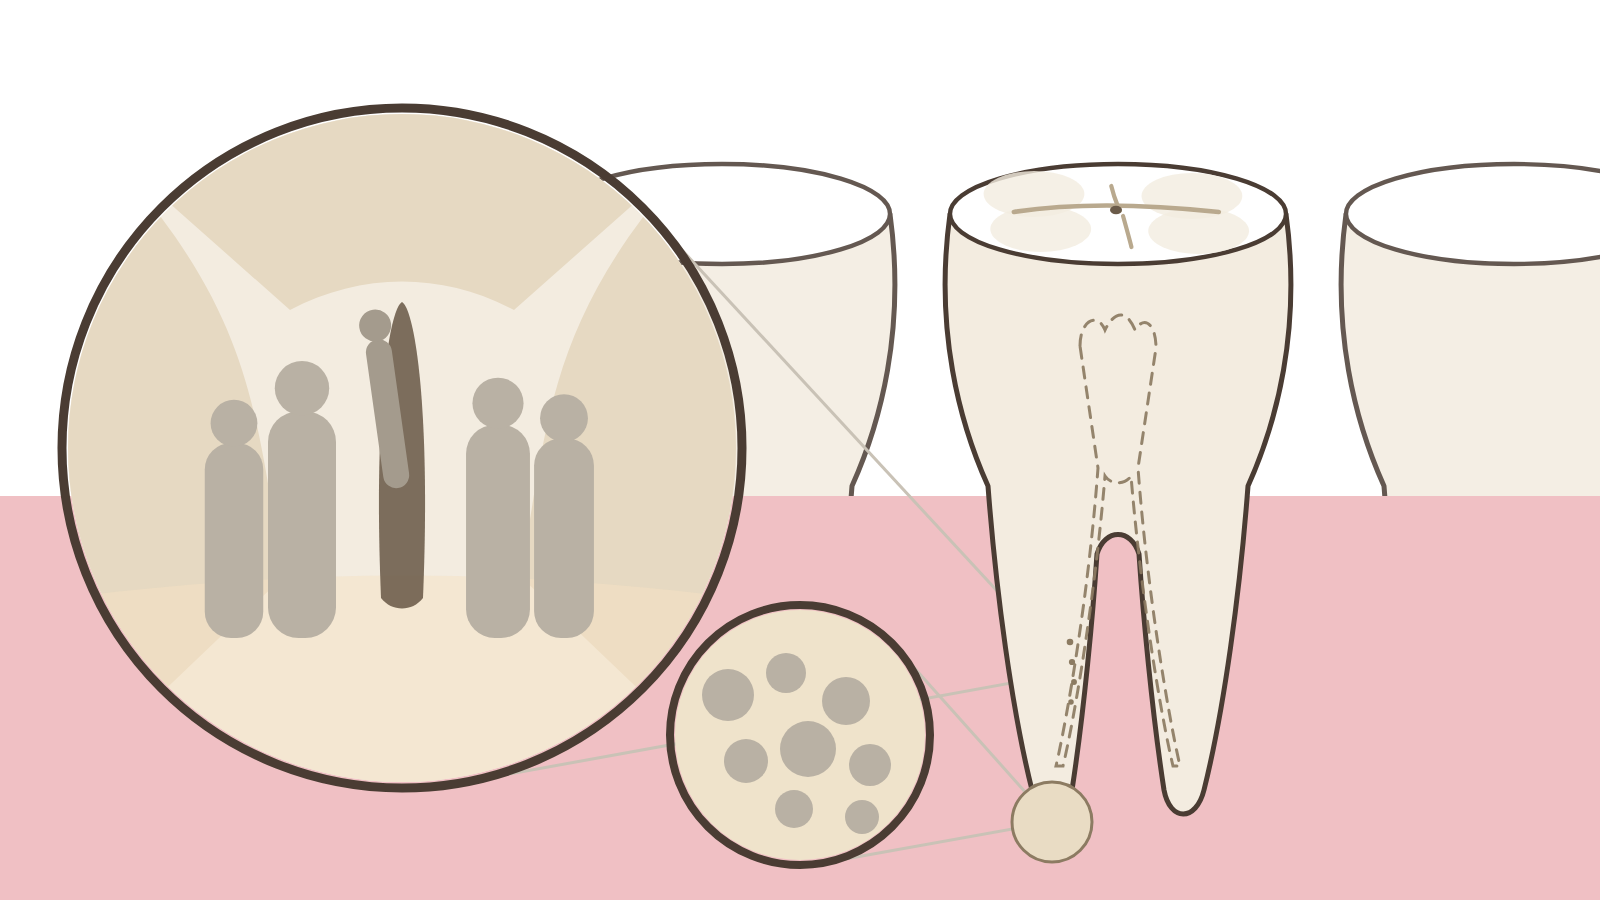
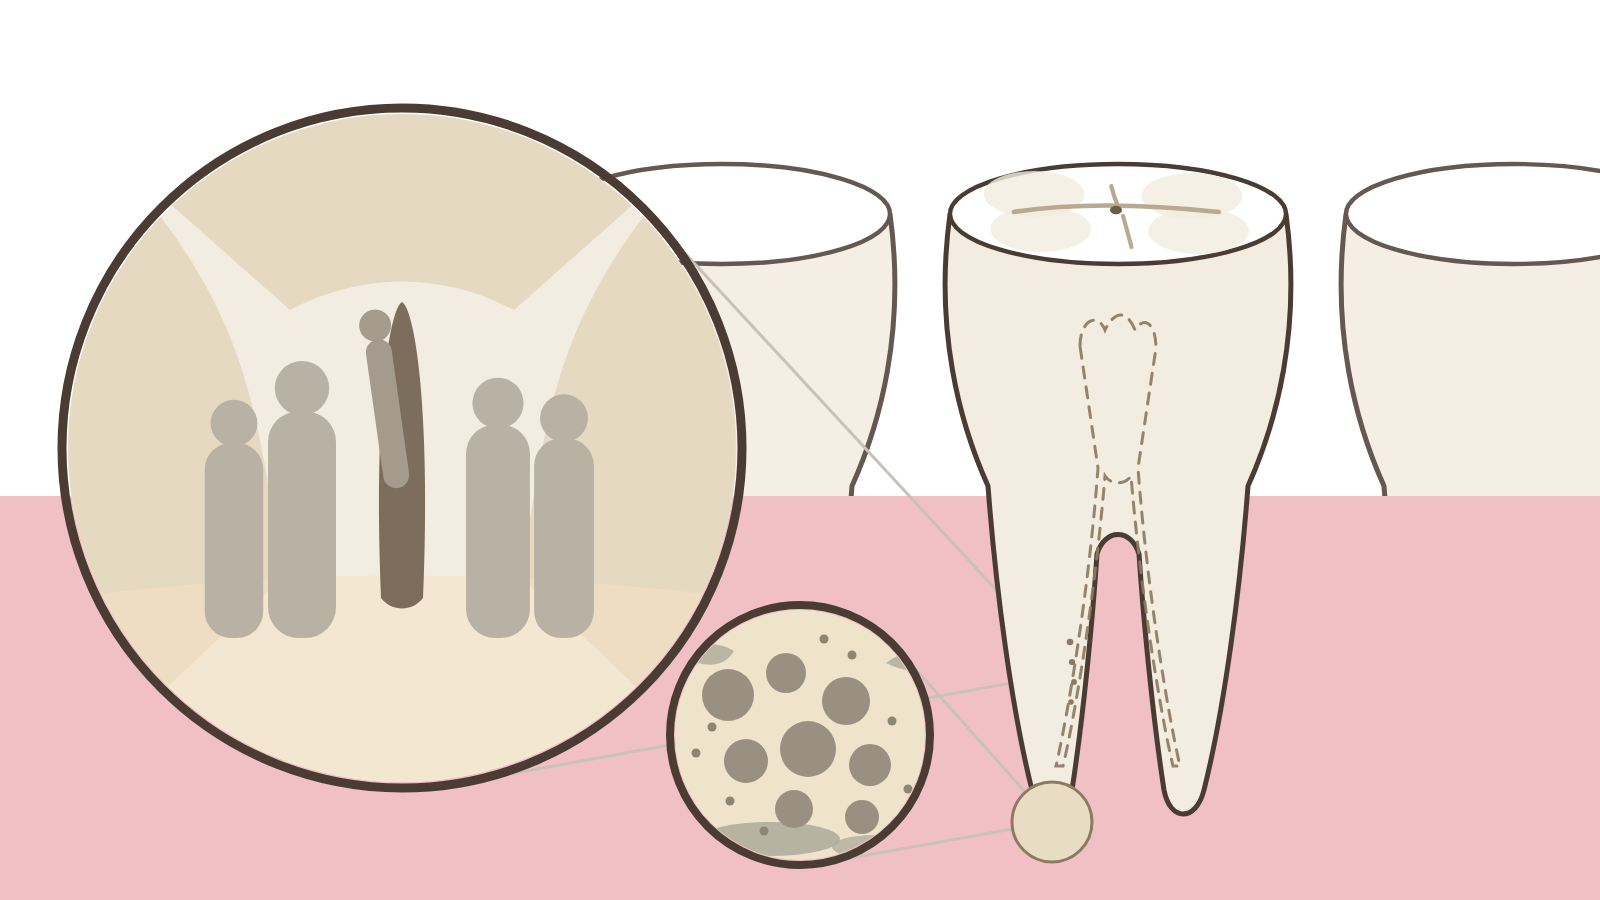
〈根管鈣化〉HERO 第八輪：細菌改成搗亂的害蟲、四個人改成消毒隊（帽兜＋透明面罩）
使用者看第七輪出圖提了六件，其實是兩件：
・細菌太淡、太可愛、像寵物在玩 → 小圈改寫成 PESTS, NOT PETS：
  顏色變成全圖最濃的，形狀歪斜多瘤，八隻逐一寫死在做哪一件壞事，
  地面牆面補上水坑、流痕、飛散的碎屑與被砸破的凹口。
  ⚠ 濁液寫死成濁綠灰／暗橄欖，明講不可以是紅色或血。
・人物太像一般人探險、要穿隔離衣 → 四個人改成一支消毒隊：
  帽兜戴起來、透明面罩、袖口收緊、手套、鞋套，每個人手上都有消毒裝備。

⚠ 這一輪推翻了第七輪我自己寫的「不戴面罩」—— 使用者附的照片是
帽兜＋透明面罩，臉照樣看得清楚，兩件事不必二選一。
他附的兩張都戴口罩護目鏡，那一半刻意沒抄（會蓋掉八條眉毛四張嘴），
提示詞明講參考圖只取衣服形狀。

⚠ 加裝備之後又掃出八處自相矛盾（頭帶穿不過帽兜、一隻手拿兩樣、
光源還寫著已經拿掉的提燈…），一併對齊。

參考圖 cave-ref.png：小圈補上水坑、牆上的噴痕與飛散的碎屑。

Claude-Session: https://claude.ai/code/session_0131yZgrnMDF1Q9xBCBg3Gcp

Changed region(s): [[0.4375, 0.7156, 0.5625, 0.9644]]

diff --git a/drafts/pulp-calcification/hero-prompt.md b/drafts/pulp-calcification/hero-prompt.md
@@ -198,6 +198,49 @@ d ＝ 那一點到圓心的距離、γ ＝ acos(r/d)、φ ＝ 圓心看向那一
 ⚠ 兩個圈的引線**都用外切線**（同第六輪那個公式），小圈的也是。
 ⚠ 小圈明講「是註腳，不可以畫得和大圈一樣大」—— 主角仍然是找入口那一件。
 
+## 一之七、第八輪（2026-09-21）：細菌太可愛、人物太像一般人
+
+> 「1. 細菌顏色太淡　2. 細菌看起來太可愛　3. 細菌看起來像寵物玩樂
+> 　4. 細菌應該要搗亂　亂丟東西　製造髒亂　噴不明液體
+> 　5. 人物太像一般人探險　6. 人物要穿像化學兵的隔離衣」
+> （同時附兩張防疫人員的照片）
+
+六件其實是**兩件**：小圈那一團整個走偏了（1~4），四個人的衣服上一輪等於沒穿（5~6）。
+
+| # | 做法 |
+| --- | --- |
+| 1~4 | 小圈從「開派對」改寫成 **PESTS, NOT PETS**。顏色**變成全圖最濃的**（深李紫／磚紅／暗芥末／濁橄欖／濁藍綠），明講「比畫面上任何東西都更飽和，讓這一小圈成為整張乾淨淡色圖裡唯一髒的角落」。形狀改成**歪斜多瘤、不對稱**，表情從「小笑嘴」改成**歪嘴壞笑、吐舌頭、挑單邊眉**。八隻**逐一寫死在做什麼壞事**：丟碎屑、踢破牆、從自己身上噴濁液、打翻小罐、抹一道髒痕、踩水坑濺水、撕下一條牆面、坐在髒堆裡往後丟垃圾。地面牆面同時寫進水坑、流痕、飛散的碎屑與被砸破的凹口。⚠ **濁液一律寫死成「濁綠灰或暗橄欖」，明講不可以是紅色、不可以是血** —— 不然「破壞」很容易被畫成血腥 |
+| 5~6 | 四個人改成**一支消毒隊**：帽兜**戴起來**、袖口收緊、手套、鞋套，**每個人手上都有消毒裝備**（背筒＋細桿／腰間小筒／噴瓶／小水桶）。衣服仍是半透明的淡薄荷青，底下的套色照樣透出來 |
+
+### ⚠⚠ 這一輪推翻了我自己第七輪寫的那一條「不戴面罩護目鏡」
+
+第七輪我寫「帽兜往後翻、不戴面罩」，理由是**這站的圖全靠臉**（第十八節：情緒在眉毛上）。
+使用者這一輪直接給了答案 —— 他附的第一張照片是**帽兜戴起來＋透明面罩**，
+臉從頭到尾看得清清楚楚。所以定案是：**帽兜戴起來、透明面罩、臉全露**，
+明講「不戴口罩、不可以是鏡面或有色護目鏡、不可以是金魚缸頭盔」。
+兩件事同時成立，不必二選一。
+
+⚠ 他附的第二張是背桶噴霧的工作人員，兩張都**戴口罩護目鏡**。
+我**刻意沒有照抄那一半** —— 照抄就會把八條眉毛和四張嘴全部蓋掉。
+提示詞因此明講：參考圖**只取衣服的形狀**，顏色、線條、姿勢、比例一概不取，
+更不可以把那張照片重畫一次。
+
+### ⚠⚠⚠ 加裝備之後，又出現八處自相矛盾（第三次了）
+
+每加一輪新東西就要回頭掃一次舊句子（第七節第 19 條的近親）。這一輪掃出八處：
+
+- 領隊原本寫「頭戴式放大鏡＋頭帶」—— **帽兜戴起來之後頭帶穿不過去**，改成
+  **燈裝在帽兜前緣、放大鏡掛在面罩上**。
+- 領隊右手原本舉提燈，現在要握噴桿 —— **一隻手不能同時拿兩樣**，提燈整個拿掉。
+- 那位女性原本「右手舉起遮光」，現在右手要拿噴瓶 —— 改成噴瓶垂在身側。
+- 老先生的水桶掛在**拄手杖的那一隻手腕**上（另一隻是被扶的那隻）。
+- 通道的光源原本是提燈，改成帽兜上那盞燈；`LIGHT AND COLOUR` 一起改口，
+  並補一句「細菌是全圖最暗最濃的東西」。
+- 「不可以長字」那張高風險清單補上連身衣、帽兜、面罩、手套、鞋套、桶、桿、
+  噴瓶、水桶、手杖與兩個鏡框。
+
+殘留檢查：`lantern` 0、`headband` 0、`shield her eyes` 0。
+
 ## 二、⚠⚠⚠ 這張圖唯一會生死的數字：**洞要小**
 
 參考圖把它釘死：**洞的寬度 ＝ 咬合面寬度的 1/28**（1600 寬的圖上只有 21px）。
@@ -253,10 +296,13 @@ d ＝ 那一點到圓心的距離、γ ＝ acos(r/d)、φ ＝ 圓心看向那一
 
 | # | 誰 | 位置與兩隻手 | 嘴 |
 | --- | --- | --- | --- |
-| 1 | **領隊**・女醫事人員・三十幾・刷手服 `#d7b7b7`・**頭戴式放大鏡＋小圓頭燈** | 站最前面。**右手舉著小提燈**、**左手往後伸招呼大家**（掌心打開） | **全圖唯一開口** —— 小小的開口形，在招呼，不是在警告 |
-| 2 | 青少年・約十五・淡黃 T 恤＋小背包 | 站領隊左後方。**右手指著洞口上緣**、**左手抓背包帶** | 閉嘴微笑、眉毛高高揚起（驚訝） |
-| 3 | 三十幾女性・鼠尾草綠外套 | 站領隊右後一步。**左手扶著老先生的前臂**、**右手舉起遮光**看洞裡的光 | 閉嘴微笑、眼睛笑瞇 |
-| 4 | 六十幾男性・小圓眼鏡・淡藍開襟衫 | 站最右，挺直站穩。**右手拄著手杖**、**左手就是被扶的那隻** | 閉嘴上揚、眉毛揚起 |
+| 1 | **領隊**・女醫事人員・三十幾・刷手服 `#d7b7b7`・**燈在帽兜前緣、放大鏡掛在面罩上**・背上噴桶 | 站最前面。**右手握著背桶那支細噴桿**（舉起、指向通道）、**左手往後伸招呼大家**（掌心打開） | **全圖唯一開口** —— 小小的開口形，在招呼，不是在警告 |
+| 2 | 青少年・約十五・淡黃 T 恤・**腰間扣一個小筒** | 站在**窄通道口**、側身。**右肩右臂已經擠進去**、**左手撐在洞口旁的牆上**，一膝抬起 | 閉嘴一條使勁的直線、眉毛揚起（在擠，但開心） |
+| 3 | 三十幾女性・鼠尾草綠外套 | 站領隊右後一步。**左手扶著老先生的前臂**、**右手拿著噴瓶**垂在身側 | 閉嘴微笑、眼睛笑瞇 |
+| 4 | 六十幾男性・小圓眼鏡・淡藍開襟衫 | 站最右，挺直站穩。**右手拄著手杖、小水桶掛在同一隻手腕上**、**左手就是被扶的那隻** | 閉嘴上揚、眉毛揚起 |
+
+⚠ 四個人**外面都罩著半透明的淡薄荷青連身衣**（帽兜戴起來、透明面罩、袖口收緊、
+手套、鞋套），底下的套色照樣透出來 —— 所以「沒有兩個人同色」仍然成立。第一之七節。
 
 ⚠ **只有一個人開口。**〈八成人有牙周病〉第三輪踩過：四格都寫「嘴微開在說話」，
 四個人就變成同一張臉。
@@ -283,7 +329,8 @@ d ＝ 那一點到圓心的距離、γ ＝ acos(r/d)、φ ＝ 圓心看向那一
 1. ⚠⚠⚠ **牙齒上那個洞是不是真的很小**（約咬合面寬的 1/28）。畫大就重來 ——
    這是這張圖的全部力量所在（第二節）。
 2. **是不是只有一個洞**，而且是**凹**不是穿透的孔。
-3. **有沒有長出任何字或數字**：提燈、背包、頭帶、鏡框與手把是高風險區。
+3. **有沒有長出任何字或數字**：連身衣、帽兜、面罩、背桶、噴桿、噴瓶、水桶、
+   手杖與兩個鏡框是高風險區（手把已經拿掉了）。
 4. **那顆牙有沒有長出臉**（眼睛、嘴巴），或變成卡通牙齒角色。
 5. **洞裡是不是暖的、開的** —— 不可以是黑洞、深淵、喉嚨或上下顎；
    不可以有蝙蝠、骷髏、蜘蛛網、像牙齒的鐘乳石。
@@ -294,6 +341,14 @@ d ＝ 那一點到圓心的距離、γ ＝ acos(r/d)、φ ＝ 圓心看向那一
 10. **兩條引線有沒有變成箭頭**，圓圈有沒有變成漫畫爆炸框或對話框。
 11. **臉有沒有變寫實**（眼白、反光點、法令紋）或變成動漫大眼。
 12. **白線有沒有從人或牙齒身上長出來** —— 氛圍線只能橫過上緣。第十之六。
+13. ⚠⚠ **小圈裡的細菌夠不夠髒**：顏色是不是全圖最濃的、形狀是不是歪斜多瘤、
+    八隻是不是每一隻都在做一件具體的壞事，地上牆上有沒有水坑、流痕與碎屑。
+    畫成圓滾滾、淡淡的、在牽手跳舞就重來（第一之七節）。
+14. ⚠⚠ **噴出來的液體有沒有變成紅色或血** —— 一律濁綠灰或暗橄欖。
+15. ⚠ **臉有沒有被蓋住**：帽兜戴起來但面罩是透明的，八條眉毛、四張嘴都要看得見；
+    不可以長出口罩、鏡面護目鏡或金魚缸頭盔。
+16. ⚠ **一隻手只拿一樣東西**：領隊右手只有噴桿（提燈已經拿掉）、
+    那位女性右手只有噴瓶（沒有在遮光）。
 
 ## 九、接圖
 
